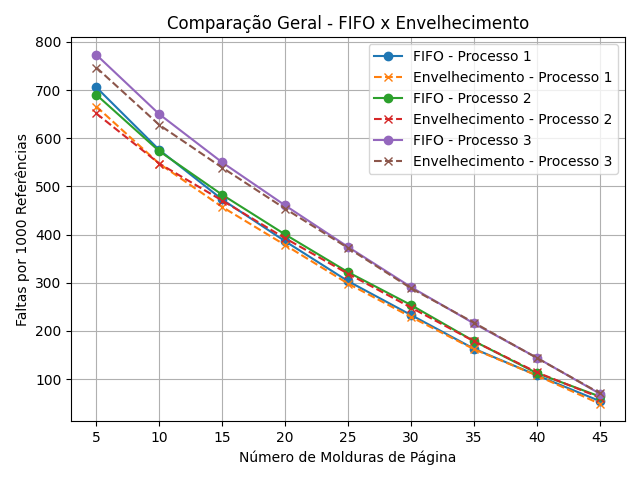
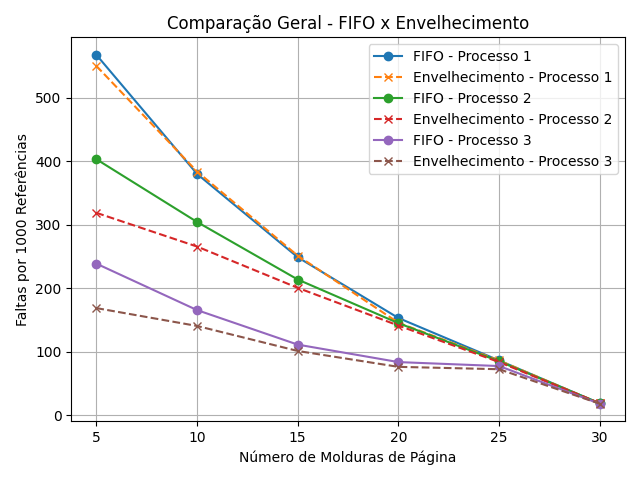
correçãos da geração dos conjuntos de trabalhos usando a gaussiana

diff --git a/main.py b/main.py
@@ -3,18 +3,27 @@ import matplotlib.pyplot as plt
 import numpy as np
 
 # Gerador de referências com distribuição Gaussiana (Normal)
-def gerar_referencias_gaussiana(processos, max_paginas, tamanho_seq_total, fases_por_processo=5):
+def gerar_referencias_gaussiana_ciclica(processos, max_paginas, tamanho_fase, fases_por_processo, ciclos):
     sequencias = []
+    desvio = 0
+
     for _ in range(processos):
-        referencias = []
-        tamanho_por_fase = tamanho_seq_total // fases_por_processo
+        fases_fixas = []
+
         for _ in range(fases_por_processo):
             media = random.randint(0, max_paginas - 1)
-            desvio = random.randint(15,25)
-            fase = np.random.normal(loc=media, scale=desvio, size=tamanho_por_fase)
-            fase = np.clip(np.round(fase), 0, max_paginas - 1).astype(int)
-            referencias.extend(fase.tolist())
+            desvio += 3
+            fase = np.random.normal(loc=media, scale=desvio, size=tamanho_fase)
+            fase = np.clip(np.round(fase), 0, max_paginas - 1).astype(int).tolist()
+            fases_fixas.append(fase)
+
+        referencias = []
+        for _ in range(ciclos):
+            for fase in fases_fixas:
+                referencias.extend(fase)
+
         sequencias.append(referencias)
+
     return sequencias
 
 # Algoritmo FIFO
@@ -58,11 +67,14 @@ def envelhecimento(referencias, molduras, bits=8):
 
 def simular():
     processos = 3
-    max_paginas = 50
-    tamanho_seq = 10000
+    max_paginas = 30
+    tamanho_fase = 50
+    fases_por_processo = 8
+    ciclos = 4
     molduras_teste = list(range(5, 31, 5))
+    total_referencias = fases_por_processo * tamanho_fase * ciclos
 
-    sequencias = gerar_referencias_gaussiana(processos, max_paginas, tamanho_seq_total=tamanho_seq)
+    sequencias = gerar_referencias_gaussiana_ciclica(processos, max_paginas, tamanho_fase, fases_por_processo, ciclos)
 
     with open("referencias_gaussiana.txt", "w") as f:
         for i, seq in enumerate(sequencias):
@@ -86,7 +98,7 @@ def simular():
         plt.plot(molduras_teste, fifo_resultado, label="FIFO", marker='o')
         plt.plot(molduras_teste, envelhecimento_resultado, label="Envelhecimento", linestyle="--", marker='x')
         plt.xlabel("Número de Molduras de Página")
-        plt.ylabel("Faltas por 1000 Referências")
+        plt.ylabel(f"Faltas por {total_referencias} Referências")
         plt.title(f"Processo {i+1}: FIFO x Envelhecimento")
         plt.legend()
         plt.grid(True)

diff --git a/teste.py b/teste.py
@@ -1,0 +1,3 @@
+
+teste = [49, 6, 16, 0, 49, 0, 0, 49, 0, 0, 29, 49, 0, 0, 0, 0, 36, 49, 49, 49, 49, 49, 0, 15, 27, 0, 0, 0, 19, 11, 0, 27, 0, 0, 46, 15, 0, 24, 0, 0, 0, 43, 0, 7, 49, 17, 0, 0, 0, 32, 8, 10, 49, 49, 49, 0, 0, 49, 49, 49, 0, 39, 49, 23, 0, 0, 35, 37, 49, 49, 26, 35, 49, 26, 49, 49, 0, 49, 49, 47, 49, 14, 34, 33, 0, 12, 0, 0, 0, 49, 0, 17, 0, 12, 49, 0, 49, 20, 0, 0, 0, 0, 0, 43, 0, 49, 35, 11, 0, 31, 11, 1, 13, 28, 0, 43, 49, 0, 0, 0, 0, 0, 49, 19, 49, 32, 49, 21, 36, 0, 0, 0, 49, 49, 0, 49, 33, 49, 0, 49, 3, 19, 40, 0, 0, 0, 49, 0, 0, 31, 6, 0, 0, 13, 29, 0, 24, 49, 13, 0, 0, 21, 0, 32, 49, 0, 32, 49, 49, 20, 49, 49, 0, 0, 49, 49, 49, 0, 49, 0, 49, 0, 0, 0, 6, 0, 32, 49, 0, 0, 0, 0, 0, 49, 13, 49, 0, 25, 0, 0, 49, 0, 0, 0, 49, 0, 49, 49, 47, 31, 0, 47, 0, 34, 49, 0, 0, 0, 0, 49, 1, 9, 20, 0, 45, 0, 5, 0, 0, 0, 49, 49, 49, 49, 0, 0, 49, 0, 0, 0, 0, 47, 22, 13, 0, 35, 21, 49, 49, 49, 0, 0, 49, 0, 27, 49, 13, 49, 0, 0, 0, 0, 49, 44, 22, 11, 49, 8, 0, 0, 0, 49, 0, 0, 49, 33, 40, 0, 49, 0, 0, 0, 13, 49, 0, 0, 0, 0, 0, 15, 34, 48, 16, 0, 23, 49, 0, 0, 13, 0, 6, 0, 49, 22, 49, 0, 20, 49, 23, 49, 0, 33, 0, 1, 0, 0, 49, 18, 49, 49, 8, 0, 49, 37, 49, 43, 0, 6, 49, 49, 49, 35, 6, 49, 18, 5, 49, 49, 35, 49, 49, 0, 49, 0, 0, 49, 49, 49, 0, 0, 0, 49, 0, 49, 0, 40, 3, 49, 0, 0, 49, 0, 0, 7, 49, 49, 0, 16, 49, 40, 49, 49, 0, 0, 16, 0, 22, 49, 9, 37, 36, 49, 12, 14, 39, 49, 0, 36, 49, 49, 0, 0, 0, 49, 6, 0, 0, 0, 3, 0, 0, 49, 0, 0, 49, 0, 49, 0, 0, 0, 0, 0, 49, 0, 41, 0, 49, 0, 0, 11, 10, 0, 49, 0, 0, 49, 33, 39, 0, 0, 0, 0, 0, 0, 49, 0, 36, 0, 12, 49, 0, 0, 3, 23, 49, 0, 0, 24, 49, 0, 0, 0, 0, 0, 49, 49, 43, 2, 18, 17, 11, 0, 0, 0, 49, 49, 49, 0, 0, 38, 36, 0, 0, 39, 49, 0, 3, 0, 0, 0, 35, 49, 0, 0, 0, 0, 49, 35, 0, 49, 0, 0, 24, 0, 2, 0, 0, 0, 22, 0]
+print(len(teste))
